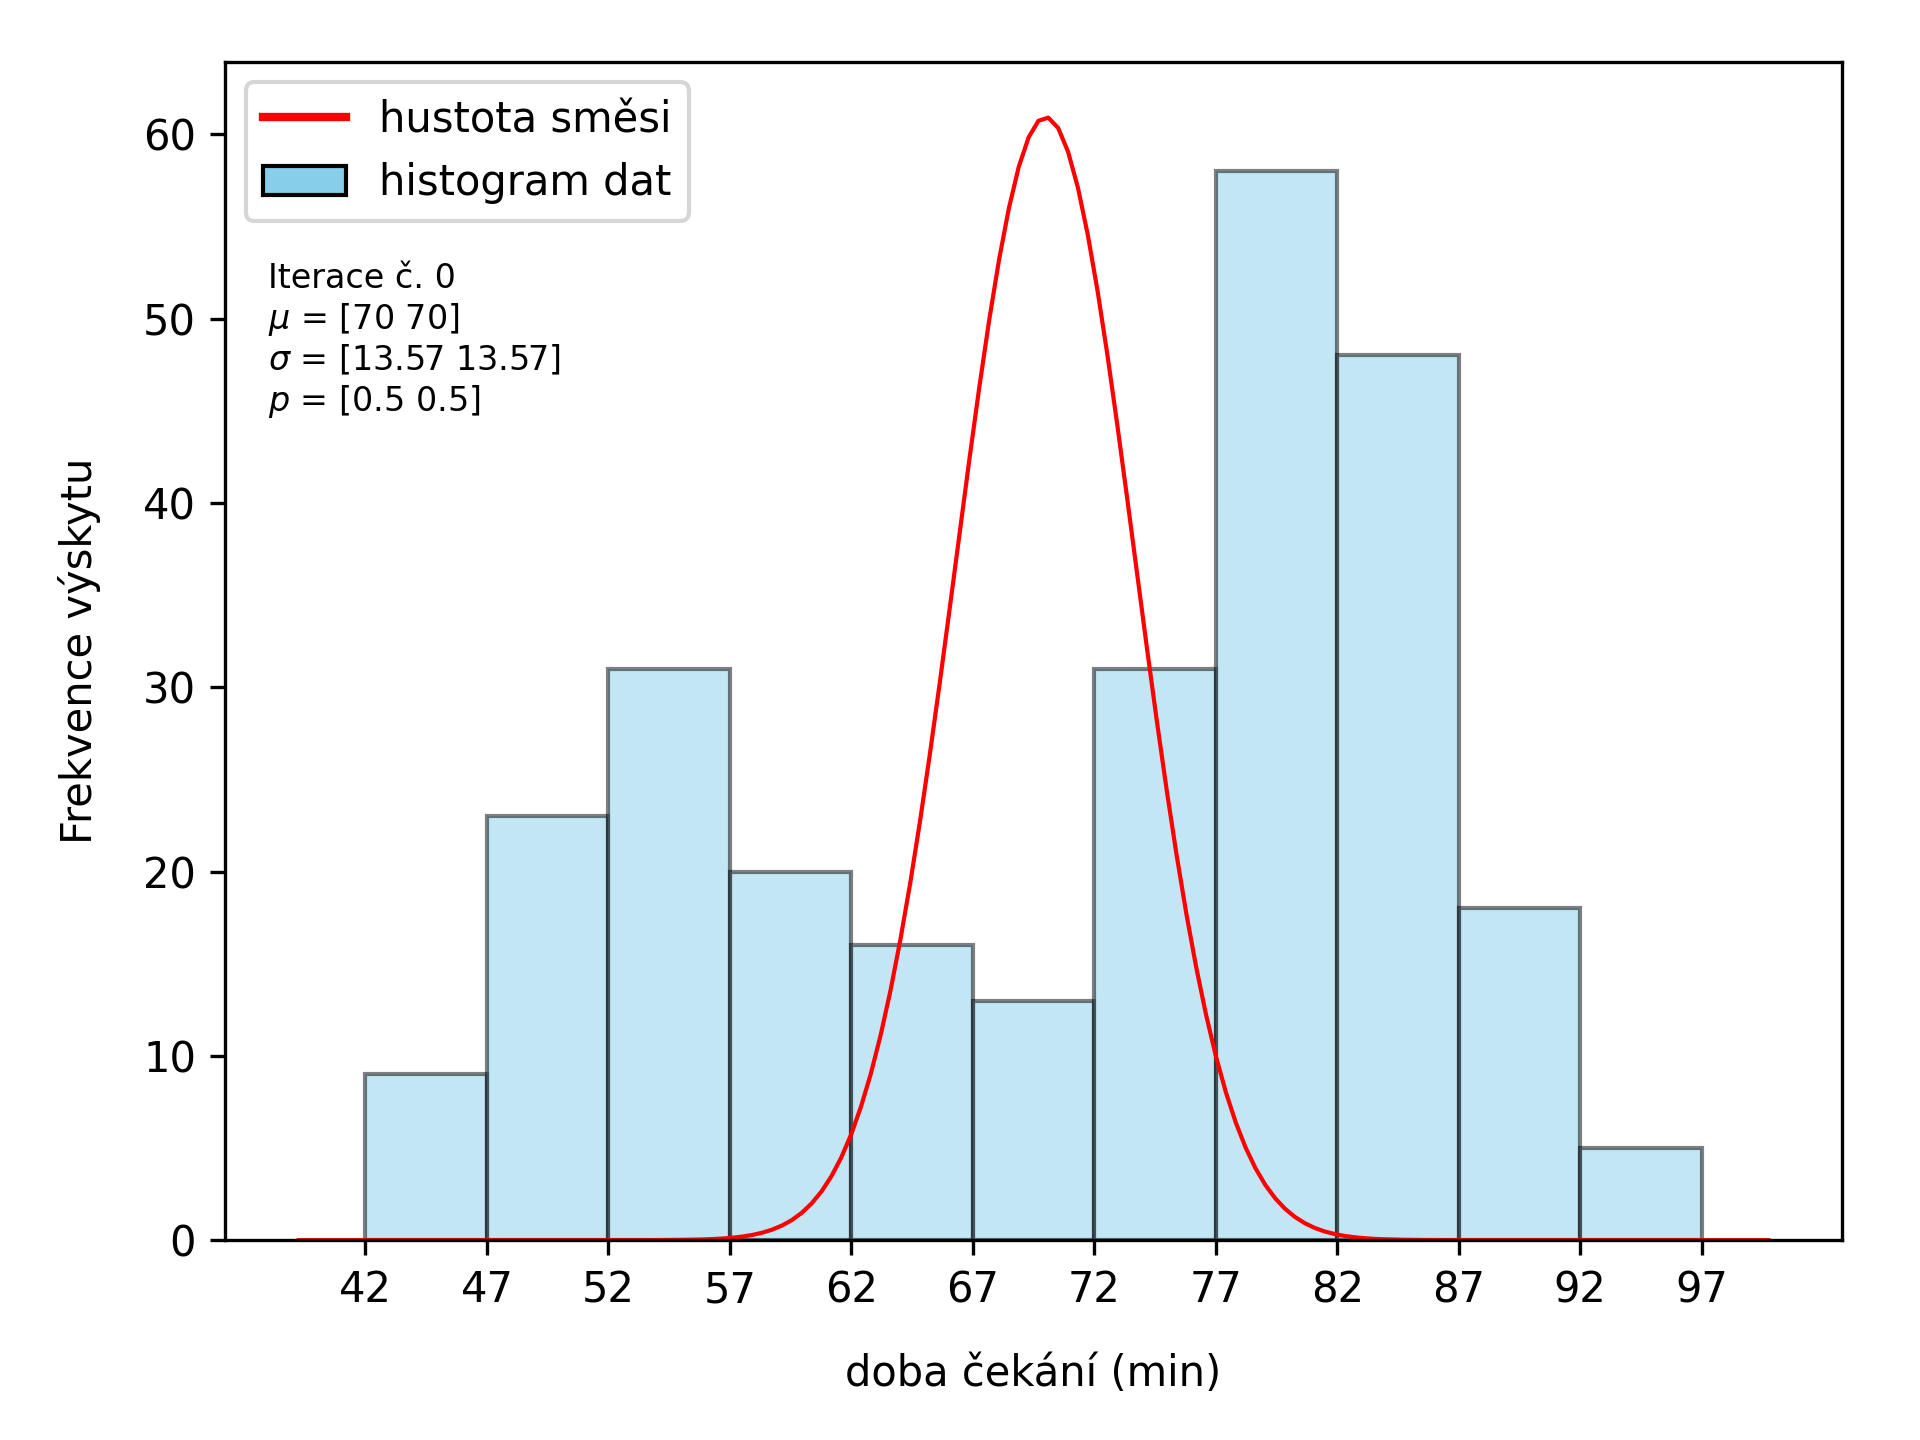
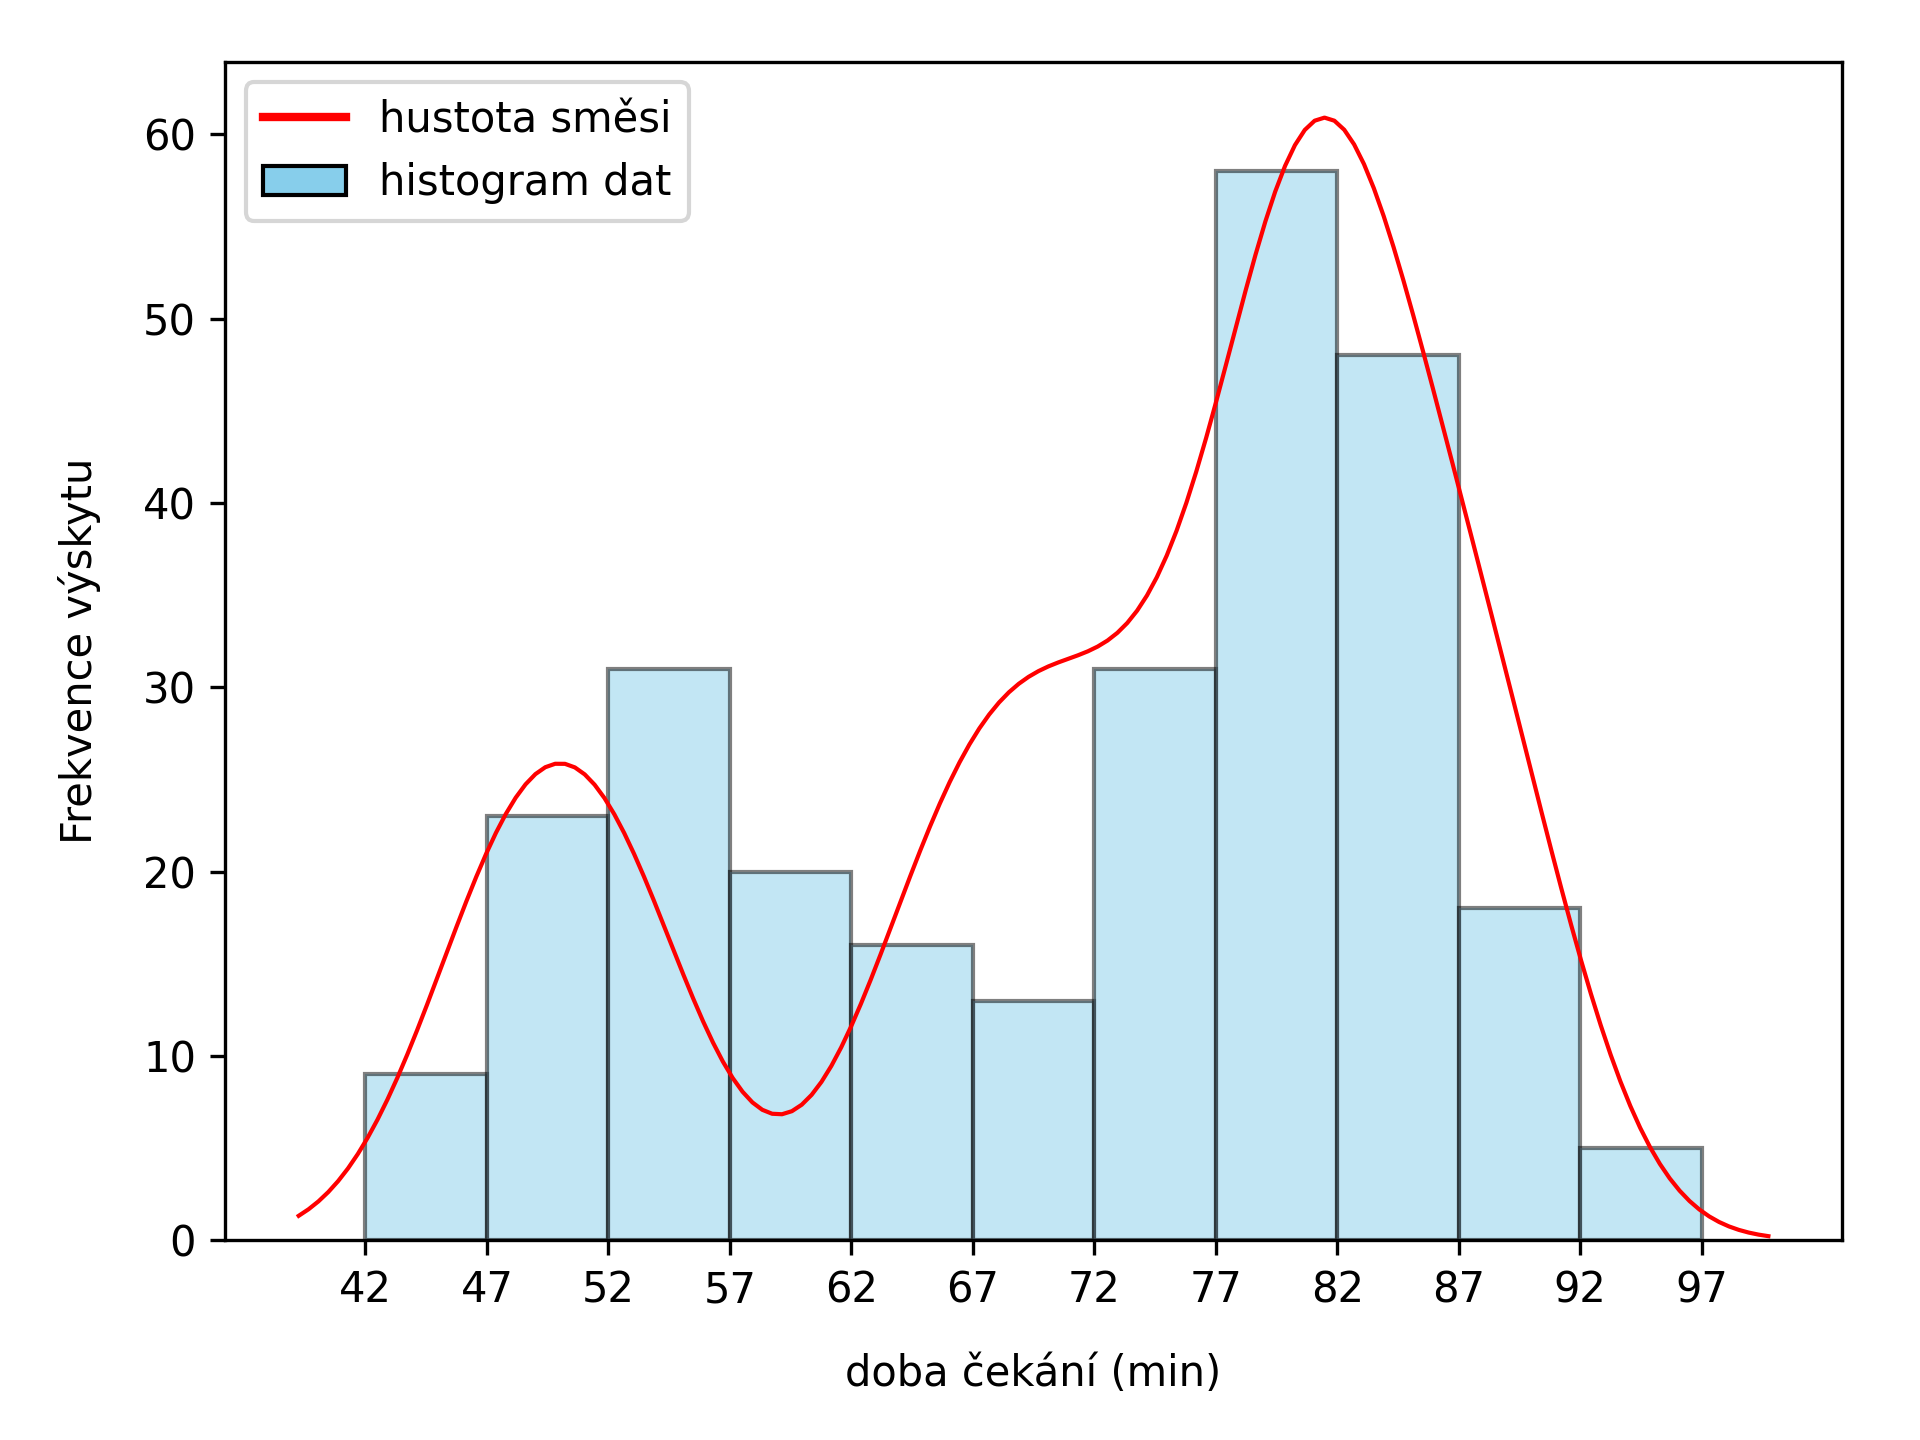
26/09/24 Morning (Relearning pandas)

diff --git a/em_algorithm_old_faithful/em_algorithm_old_faithful.py b/em_algorithm_old_faithful/em_algorithm_old_faithful.py
@@ -13,10 +13,10 @@ data_waiting = data["waiting"]
 data_eruptions = data["eruptions"]
 
 # Number of components
-n_components = 2
+n_components = 15
 
 # Initial parameter values
-mu_0 = [70, 70]#np.random.choice(data_waiting, n_components)
+mu_0 = np.random.choice(data_waiting, n_components)
 sd = np.sqrt(np.var(data_waiting)) # standard deviation of dataset
 sigma_0 = np.full(shape=n_components, fill_value=sd)
 p_0 = np.ones(n_components) / n_components  # n coefficients of the same value
@@ -37,13 +37,15 @@ while(like_diff > 1e-6):
     l1 = log_lik_mix_norm(data_waiting, psi1[0], psi1[1], psi1[2])
     l2 = log_lik_mix_norm(data_waiting, psi2[0], psi2[1], psi2[2])
     like_diff = abs(l2 - l1)
-    if (no_iter % 5 == 0):
+    if (no_iter % 100 == 0):
         print(f"mu({no_iter}): {psi2[0]},", 
               f"like: {log_lik_mix_norm(data_waiting, psi2[0], psi2[1], psi2[2])}")
-    visualise(data_waiting, psi2[0], psi2[1], psi2[2], n_iter=no_iter, res=res, 
+        visualise(data_waiting, psi2[0], psi2[1], psi2[2], n_iter=no_iter, res=res, 
                 name = f"pics_latest_run/image{no_iter}.png")
     psi1 = [psi2[0], psi2[1], psi2[2]]
-
+    
+visualise(data_waiting, psi2[0], psi2[1], psi2[2], n_iter=no_iter, res=res, 
+                name = f"pics_latest_run/image{no_iter}.png")
 print(f"Number of iterations: {no_iter}")
 
 #plot_hist_of(data_waiting)

diff --git a/em_algorithm_old_faithful/fns_old_faithful.py b/em_algorithm_old_faithful/fns_old_faithful.py
@@ -134,7 +134,7 @@ def visualise(data, mu, sigma, p, n_iter, res, name):
         rf"$\sigma$ = {sigma_r}" + "\n"
         rf"$p$ = {p_r}")
     
-    plt.text(38, 45, text_text, fontsize=8)
+    #plt.text(38, 45, text_text, fontsize=8)
     
         
     legend_elements = [
@@ -147,4 +147,4 @@ def visualise(data, mu, sigma, p, n_iter, res, name):
     plt.savefig(name)
     plt.close()   
 
-multiple_runs_em(data_waiting, 100)
+#multiple_runs_em(data_waiting, 100)

diff --git a/first_chapter_graphs/2d_normal_dist/2d_normal_dist.py b/first_chapter_graphs/2d_normal_dist/2d_normal_dist.py
@@ -1,0 +1,7 @@
+from sklearn.datasets import load_wine
+import pandas as pd
+
+load_data = load_wine(as_frame=True)
+wine_df = pd.DataFrame(load_data.data, columns=load_data.feature_names)
+alcohol_column = wine_df['alcohol']
+print(alcohol_column)
